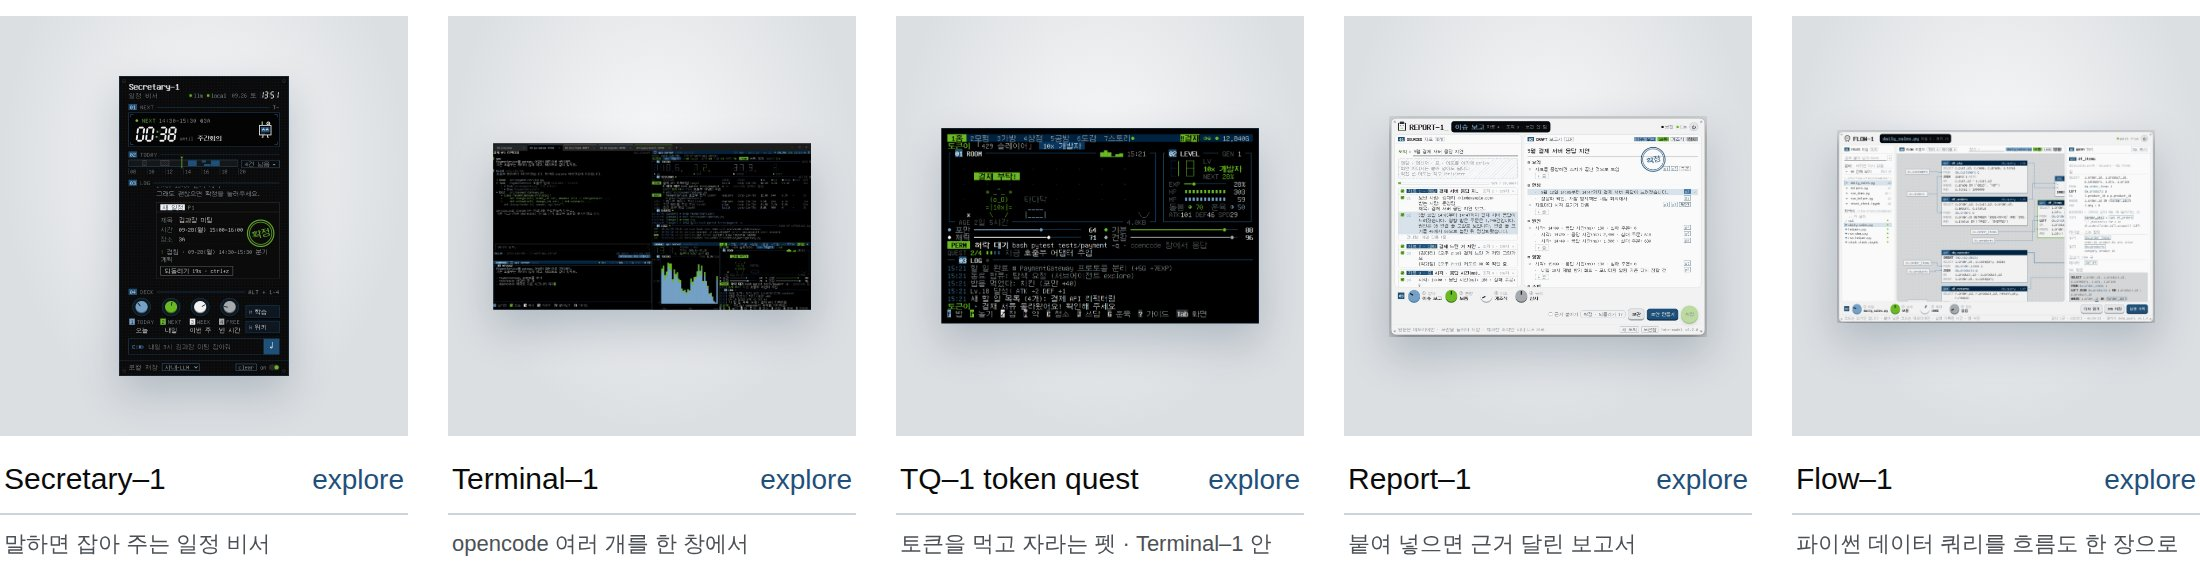
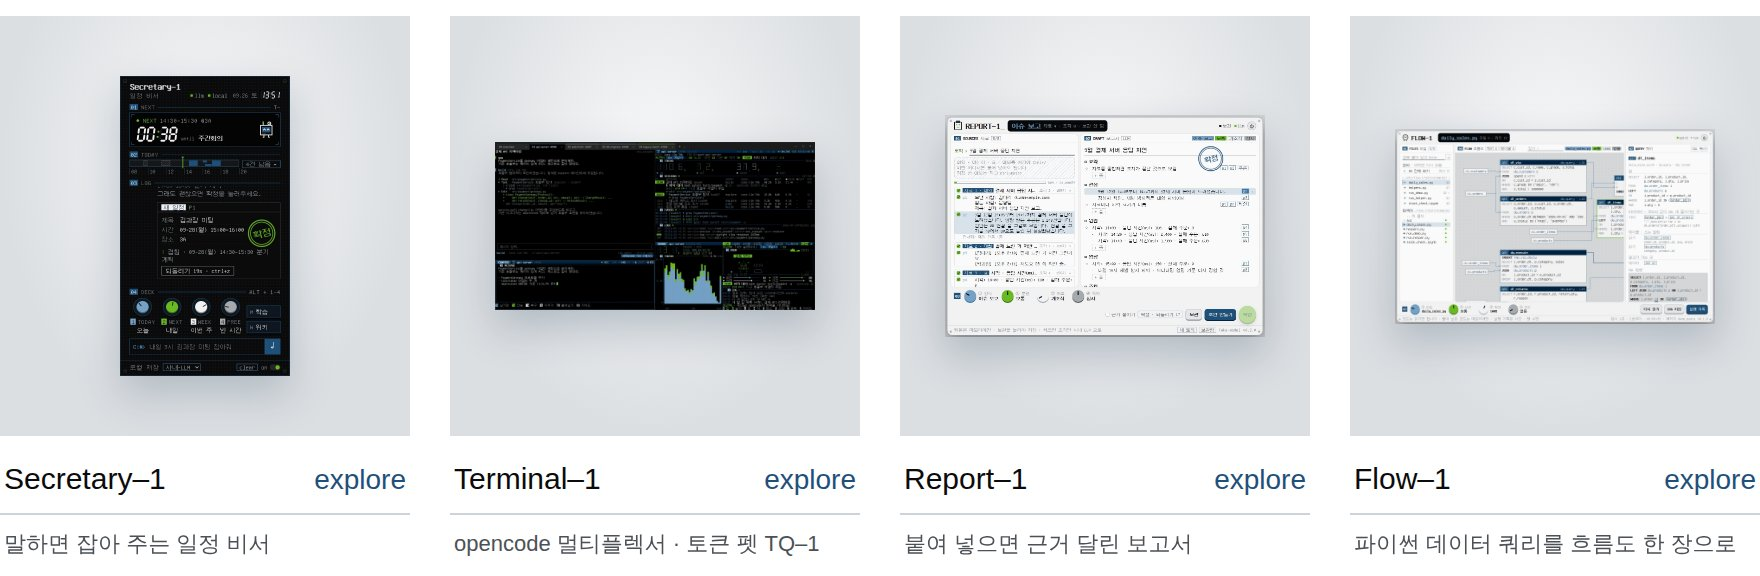
works: 메인에서 TQ–1 을 Terminal–1 소개 안으로 · 시스템 · 부품 사진 앱 네 개
TOKEN QUEST(TQ–1)는 Terminal–1 안의 부품이라 메인 페이지에서 따로 한 자리를 차지하지 않는다.
- 루트 README: 부품 목록의 TQ–1 줄 · 링크 줄의 TQ–1 링크를 빼고 Terminal–1 줄에 "토큰을 먹고 자라는 펫 TQ–1 과 함께"
- tools/system_pages.py: PARTS 에서 TQ–1 을 빼고 Terminal–1 카드 설명에 "토큰 펫 TQ–1" · 캡처 폭 = 앱 수 × 440
  · 카드 글이 칸을 넘으면(… 로 잘리면) 사진을 만들지 않고 멈춘다
- docs/page/system-{dark,light}.jpg · parts-{dark,light}.jpg 다시 만듦

Claude-Session: https://claude.ai/code/session_01VUHFrmhiWMMD1EomVJW3QZ

diff --git a/tools/system_pages.py b/tools/system_pages.py
@@ -18,16 +18,14 @@ OUT = os.path.join(ROOT, "docs", "page")
 PARTS = [
     ("Secretary–1", "SECRETARY–1", "말하면 잡아 주는 일정 비서",
      "secretary-1/docs/page/hero-{theme}.jpg", (540, 120, 680, 1200)),
-    ("Terminal–1", "TERMINAL–1", "opencode 여러 개를 한 창에서",
+    ("Terminal–1", "TERMINAL–1", "opencode 멀티플렉서 · 토큰 펫 TQ–1",     # TQ–1 은 Terminal–1 안의 부품
      "terminal-1/docs/images/page/hero-{theme}.jpg", (80, 140, 1600, 840)),
-    ("TQ–1 token quest", "TQ–1 · TOKEN QUEST", "토큰을 먹고 자라는 펫 · Terminal–1 안",
-     "terminal-1/docs/images/page/pet-{theme}.png", (62, 12, 800, 492)),
     ("Report–1", "REPORT–1", "붙여 넣으면 근거 달린 보고서",
      "report-1/docs/page/hero-{theme}.jpg", (0, 0, 1180, 820)),
     ("Flow–1", "FLOW–1", "파이썬 데이터 쿼리를 흐름도 한 장으로",
      "flow-1/docs/page/hero-{theme}.jpg", (0, 0, 1480, 900)),
 ]
-W = 2200                    # 부품 카드 하나가 약 400px 이 되게 (앱 수 × 440)
+W = 440 * len(PARTS)        # 부품 카드 하나가 약 400px 이 되게
 SANS = '"Pretendard", "Malgun Gothic", "Apple SD Gothic Neo", "Noto Sans KR", "Segoe UI", "Liberation Sans", ' \
        '"WenQuanYi Zen Hei", sans-serif'
 THEME = {
@@ -79,8 +77,7 @@ def fit(box, max_w, max_h):
 
 def system_html(theme):
     t = THEME[theme]
-    heights = {"Secretary–1": 420, "Terminal–1": 280, "TQ–1 token quest": 175, "Report–1": 280,   # 앱을 더하면 줄이거나
-               "Flow–1": 280}                                                                        # W 를 넓힌다
+    heights = {"Secretary–1": 400, "Terminal–1": 260, "Report–1": 260, "Flow–1": 260}   # 앱을 더하면 줄인다
     figs = []
     for name, label, _, src, box in PARTS:
         h = heights.get(name, 330)
@@ -134,6 +131,10 @@ def main():
                     f.write(f"<!doctype html><meta charset=utf-8><body style='background:{bg[theme]}'>" + make(theme))
                 page.goto("file://" + html)
                 page.wait_for_timeout(300)
+                cut = page.evaluate("[...document.querySelectorAll('.n, .sub, figcaption')]"
+                                    ".filter(e => e.scrollWidth > e.clientWidth + 1).map(e => e.textContent)")
+                if cut:
+                    raise SystemExit(f"{kind}-{theme}: 글이 칸을 넘칩니다 (…로 잘림) → 설명을 줄이세요: {cut}")
                 out = os.path.join(OUT, f"{kind}-{theme}.{ext}")
                 page.locator("#cap").screenshot(path=out, type="jpeg", quality=85)
                 print(f"{out} · {os.path.getsize(out) // 1024} KB")

diff --git a/README.md b/README.md
@@ -1,7 +1,7 @@
 <p align="center">
   <picture>
     <source media="(prefers-color-scheme: dark)" srcset="docs/page/system-dark.jpg">
-    <img src="docs/page/system-light.jpg" width="880" alt="works 시스템: Secretary–1, Terminal–1, TOKEN QUEST, Report–1, Flow–1 을 나란히">
+    <img src="docs/page/system-light.jpg" width="880" alt="works 시스템: Secretary–1, Terminal–1(안에 TOKEN QUEST), Report–1, Flow–1 을 나란히">
   </picture>
 </p>
 
@@ -21,8 +21,7 @@ works 는 매일 쓰는 사내 도구 모음입니다. 같은 팔레트, 같은 
 
 <p align="center"><sub>
 SECRETARY–1 · 말하면 잡아 주는 일정 비서<br>
-TERMINAL–1 · opencode 여러 개를 한 창에서<br>
-TQ–1 · 토큰을 먹고 자라는 펫 · TERMINAL–1 안<br>
+TERMINAL–1 · opencode 여러 개를 한 창에서 · 토큰을 먹고 자라는 펫 TQ–1 과 함께<br>
 REPORT–1 · 붙여 넣으면 근거 달린 보고서<br>
 FLOW–1 · 파이썬 데이터 쿼리를 흐름도 한 장으로<br>
 저장소 하나 · D:\OPENCODE · 폴더 이름 = 명령 이름<br>
@@ -34,14 +33,13 @@ FLOW–1 · 파이썬 데이터 쿼리를 흐름도 한 장으로<br>
 <p align="center">
   <picture>
     <source media="(prefers-color-scheme: dark)" srcset="docs/page/parts-dark.jpg">
-    <img src="docs/page/parts-light.jpg" width="880" alt="works 시스템 부품: Secretary–1 일정 비서 · Terminal–1 opencode 멀티플렉서 · TQ–1 token quest 토큰 펫 · Report–1 근거 달린 보고서 · Flow–1 쿼리 흐름도">
+    <img src="docs/page/parts-light.jpg" width="880" alt="works 시스템 부품: Secretary–1 일정 비서 · Terminal–1 opencode 멀티플렉서와 토큰 펫 TQ–1 · Report–1 근거 달린 보고서 · Flow–1 쿼리 흐름도">
   </picture>
 </p>
 
 <p align="center">
 <a href="secretary-1/README.md">Secretary–1 ›</a> &nbsp;·&nbsp;
 <a href="terminal-1/README.md">Terminal–1 ›</a> &nbsp;·&nbsp;
-<a href="terminal-1/docs/MANUAL.md#06-token-quest">TQ–1 token quest ›</a> &nbsp;·&nbsp;
 <a href="report-1/README.md">Report–1 ›</a> &nbsp;·&nbsp;
 <a href="flow-1/README.md">Flow–1 ›</a>
 </p>
